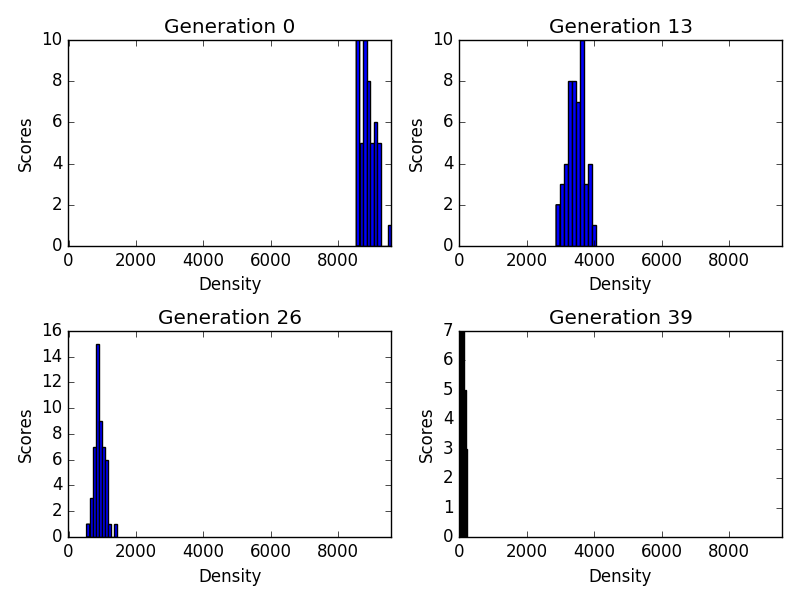
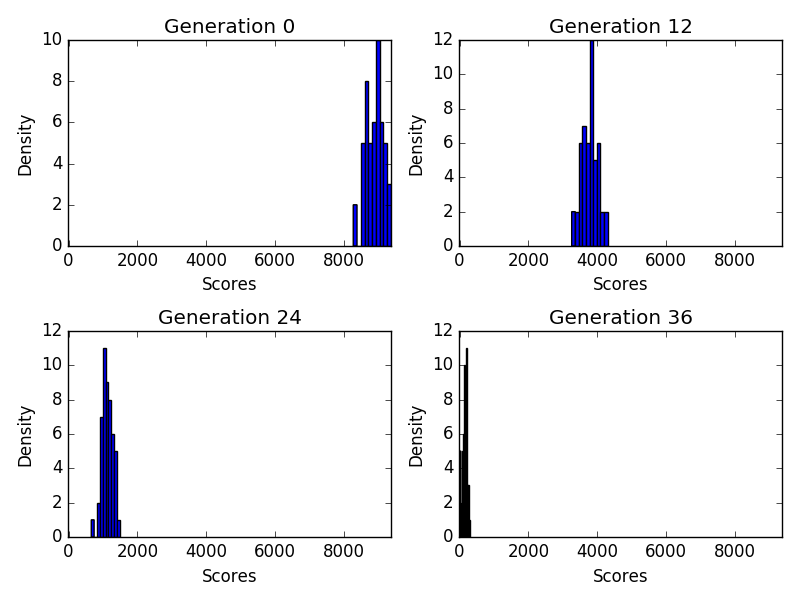
Current

diff --git a/Statistics.py b/Statistics.py
@@ -9,15 +9,19 @@ matplotlib.use('Agg')
 import matplotlib.pyplot as plt
 from GeneticAlgorithm import runit
 from Data import Data
+import numpy
+import pylab
+import matplotlib.cm as cm
+from PIL import Image
 
-def sampler(test):
+def sampler(test,mutation=0.1,crossover=0.7):
     _mean = []
     _max = []
     _min = []
     _best = []
     _times = []
     _scores = []
-    run_times, score_watch, best_perc = runit(test)
+    run_times, score_watch, best_perc = runit(test,mutation=mutation,crossover=crossover)
     for run_time, scores in zip(run_times,score_watch):
         _times.append(run_time)
         _mean.append(scores[2])
@@ -56,64 +60,139 @@ def histogram(test):
         ax.hist(data[idx])
         ax.set_xlim([min(_min),max(_max)])
         ax.set_title(titles[idx])
-        ax.set_xlabel("Density")
-        ax.set_ylabel("Scores")
+        ax.set_ylabel("Density")
+        ax.set_xlabel("Scores")
     plt.tight_layout()
     plt.savefig("histogram_{0}.png".format(test))
 
-def vary_mutation():
-    return
+def vary_mutation(test,mutations,runs=3):
+    means = []
+    errors = []
+    fig, ax = plt.subplots()
+    for mutation in mutations:
+        avg_perc = []
+        for run in range(runs):
+            _times, _mean, _max, _min, _best, _scores, best_perc = sampler(test,mutation=mutation)
+            avg_perc.append(best_perc)
+        means.append(numpy.mean(avg_perc))
+        errors.append(numpy.std(avg_perc))
+    plt.bar(range(len(mutations)),means, width, color='r', yerr=errors)
+    ax.set_title("Accuracy (Percentage) vs. Mutation Rate ({0})".format(test.upper()))
+    ax.set_xticks(range(len(mutations)))
+    ax.xticklabels(mutations)
+    ax.set_ylabel("Percentage")
+    ax.set_xlabel("Mutation Rate")
+    plt.savefig("mutation_{0}.png".format(test.lower()))
 
-def vary_crossover():
-    return
+def vary_crossover(test,crossovers,runs=3):
+    means = []
+    errors = []
+    fig, ax = plt.subplots()
+    for crossover in crossovers:
+        avg_perc = []
+        for run in range(runs):
+            _times, _mean, _max, _min, _best, _scores, best_perc = sampler(test,crossover=crossover)
+            avg_perc.append(best_perc)
+        means.append(numpy.mean(avg_perc))
+        errors.append(numpy.std(avg_perc))
+    plt.bar(range(len(crossovers)),means, width, color='r', yerr=errors)
+    ax.set_title("Accuracy (Percentage) vs. Crossover Rate ({0})".format(test.upper()))
+    ax.set_xticks(range(len(crossovers)))
+    ax.set_xticklabels(crossovers)
+    ax.set_ylabel("Percentage")
+    ax.set_xlabel("Crossover Rate")
+    plt.savefig("crossover_{0}.png".format(test.lower()))
 
-def percentage_bar(tests,runs=5,width=.35):
+def percentage_bar(tests,runs=3,width=.35):
     string_size = []
     avg_perc = []
-    plt.figure()
+    errors = []
+    fig, ax = plt.subplots()
     for test in tests:
         percs = []
         string_size.append(len(Data("{0}.txt".format(test.lower())).getSequence()))
         for run in xrange(runs):
             _times, _mean, _max, _min, _best, _scores, perc = sampler(test)
-            percs.append(object)
-        avg_perc.append(mean(percs))
+            percs.append(perc)
+        avg_perc.append(numpy.mean(percs))
         errors.append(numpy.std(percs))
-    plt.bar(range(len(string_size)),avg_perc, width, color='r', yerr=menStd)
-    plt.title("Accuracy (Percentage) vs. RNA Length")
-    plt.xticks(ind + width)
-    plt.xticklabels(string_size)
-    plt.ylabel("Percentage")
-    plt.xlabel("RNA Length")
+    ax.bar(range(len(string_size)),avg_perc, width, color='r', yerr=errors)
+    ax.set_title("Accuracy (Percentage) vs. RNA Length")
+    ax.set_xticks(range(len(string_size)))
+    ax.set_xticklabels(string_size)
+    ax.set_ylabel("Percentage")
+    ax.set_xlabel("RNA Length")
+    plt.savefig("percentage.png")
 
-def time_bar(tests,runs=5,width=.35):
+def time_bar(tests,runs=3,width=.35):
     string_size = []
-    avg_perc = []
-    plt.figure()
+    avg_times = []
+    errors = []
+    fig, ax = plt.subplots()
     for test in tests:
-        percs = []
+        times = []
         string_size.append(len(Data("{0}.txt".format(test.lower())).getSequence()))
         for run in xrange(runs):
             _times, _mean, _max, _min, _best, _scores, perc = sampler(test)
-            percs.append(object)
-        avg_perc.append(mean(percs))
-        errors.append(numpy.std(percs))
-    plt.bar(range(len(string_size)),avg_perc, width, color='r', yerr=menStd)
-    plt.title("Accuracy (Percentage) vs. RNA Length")
-    plt.xticks(ind + width)
-    plt.xticklabels(string_size)
-    plt.ylabel("Percentage")
-    plt.xlabel("RNA Length")
+            times += _times
+        avg_times.append(numpy.mean(times))
+        errors.append(numpy.std(times))
+    ax.bar(range(len(string_size)),avg_times, width, color='r', yerr=errors)
+    ax.set_title("Average Time per Generation vs. RNA Length")
+    ax.set_xticks(range(len(string_size)))
+    ax.set_xticklabels(string_size)
+    ax.set_ylabel("Seconds")
+    ax.set_xlabel("RNA Length")
+    plt.savefig("time.png")
 
+
+def iter_bar(tests,runs=3,width=.35):
+    string_size = []
+    avg_times = []
+    errors = []
+    fig, ax = plt.subplots()
+    for test in tests:
+        iters = []
+        string_size.append(len(Data("{0}.txt".format(test.lower())).getSequence()))
+        for run in xrange(runs):
+            _times, _mean, _max, _min, _best, _scores, perc = sampler(test)
+            iters.append(len(_times))
+        avg_times.append(numpy.mean(iters))
+        errors.append(numpy.std(iters))
+    ax.bar(range(len(string_size)),avg_times, width, color='r', yerr=errors)
+    ax.set_title("Average Iterations (Convergence) vs. RNA Length")
+    ax.set_xticks(range(len(string_size)))
+    ax.set_xticklabels(string_size)
+    ax.set_ylabel("Average Iterations")
+    ax.set_xlabel("RNA Length")
+    plt.savefig("time.png")
+
+def compare_diagrams(test_image,true_image):
+    f = plt.figure(figsize=(4,8))
+    perc = 40.506
+    titles=["Predicted (Accuracy={0}%)".format(perc),"True Structure"]
+    for n, fname in enumerate((test_image, true_image)):
+        image=Image.open(fname).convert("L")
+        arr=numpy.asarray(image)
+        f.add_subplot(2, 1, n+1)
+        plt.axis('off')
+        plt.tick_params(axis='both', left='off', top='off', right='off', bottom='off', labelleft='off', labeltop='off', labelright='off', labelbottom='off')
+        plt.imshow(arr,cmap=cm.Greys_r)
+        plt.title(titles[n])
+    plt.tight_layout()
+    plt.savefig("comparison.png")
 
 def all_stats():
     tests = ["test6","test7","test4","test5"]
-    for test in tests:
-        #scatter(test)
-        #histogram(test)
-    percentage_bar(test)
-    time_bar(test)
-
+    # for test in tests:
+    #     #scatter(test)
+    #     histogram(test)
+    # percentage_bar(tests)
+    #time_bar(tests)
+    iter_bar(tests)
+    vary_mutation("test4", [0.01,0.05,0.1,0.15,0.2,0.3])
+    vary_crossover("test4", [0.2,0.3,0.4,0.5,0.6,0.7,0.8])
+    # compare_diagrams("Test5Output_ss.ps","test5_true.png")
 
 if __name__ == '__main__':
     all_stats()

diff --git a/GeneticAlgorithm.py b/GeneticAlgorithm.py
@@ -156,7 +156,7 @@ class GeneticAlgorithm(object):
             last_best = self.bestScore
         return self.bestScore, self.fittestChild
 
-def runit(test,crossover=0.7,mutation=0.1,iterations=600,unchanged=10,population=50,draw=False):
+def runit(test,crossover=0.7,mutation=0.1,iterations=600,unchanged=20,population=20,draw=False):
     testcase = test
     print("**PREDICTING RNA SECONDARY STRUCTURE**")
     data = Data.Data("{0}.txt".format(testcase))
@@ -185,7 +185,7 @@ if __name__ == '__main__':
     parser.add_argument('-m',type=float,dest='mutation',default=0.1)
     parser.add_argument('-c',type=float,dest='crossover',default=0.7)
     parser.add_argument('-i',type=int,dest='iterations',default=600)
-    parser.add_argument('-u',type=int,dest='unchanged',default=10)
+    parser.add_argument('-u',type=int,dest='unchanged',default=20)
     parser.add_argument('-p',type=int,dest='population',default=50)
     args = parser.parse_args()
     runit(args.test,args.crossover,args.mutation,args.iterations,args.unchanged,args.population,args.draw)

diff --git a/RNA.py b/RNA.py
@@ -1,5 +1,4 @@
 """
-Classes:
 Defining Secondary Structure Configuration
 """
 import numpy
